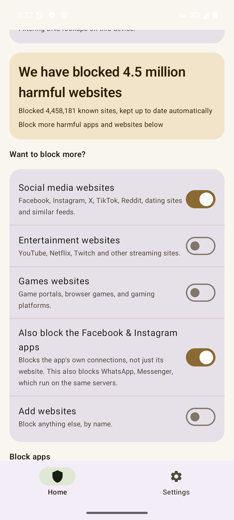
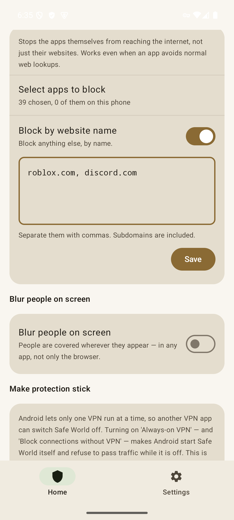
an update

diff --git a/website/index.html b/website/index.html
@@ -459,7 +459,6 @@
       <span data-i18n="nav.brand">Safe World</span>
     </a>
     <nav class="nav-links">
-      <a href="#tutorial" data-i18n="nav.tutorial">Tutorial</a>
       <a href="#download" data-i18n="nav.download">Download</a>
       <a href="#how" data-i18n="nav.how">How it works</a>
       <a href="#compare" data-i18n="nav.compare">Compare</a>
@@ -526,36 +525,13 @@
             </div>
           </div>
         </div>
-        <a class="btn btn-accent download-now" href="guide/#video">
+        <a class="btn btn-accent download-now" href="guide/">
           <svg viewBox="0 0 24 24" width="17" height="17" aria-hidden="true">
             <rect x="2.6" y="4.8" width="18.8" height="14.4" rx="2.6" fill="none" stroke="currentColor" stroke-width="1.9"/>
             <path d="M10.2 9.4 15 12l-4.8 2.6Z" fill="currentColor" stroke="currentColor" stroke-width="1.5" stroke-linejoin="round"/>
           </svg>
           <span data-i18n="hero.watch_cta">Watch tutorial</span>
         </a>
-      </div>
-    </div>
-  </section>
-
-  <section id="tutorial">
-    <div class="wrap">
-      <div class="section-head reveal">
-        <span class="eyebrow" data-i18n="tutorial.eyebrow">Watch first · 3 min 33 s</span>
-        <h2 data-i18n="tutorial.h2">See exactly what it does, before you install it.</h2>
-        <p data-i18n="tutorial.body">Every feature, on the real app: what each switch does, what changes when it's on or off, and why it's there.</p>
-      </div>
-      <div class="video-wrap reveal">
-        <video controls preload="none" playsinline poster="guide/video/poster.jpg">
-          <source src="guide/video/safe-world-tutorial.mp4" type="video/mp4">
-          <track kind="subtitles" src="guide/video/tutorial.en.vtt" srclang="en" label="English" default>
-          <track kind="subtitles" src="guide/video/tutorial.bn.vtt" srclang="bn" label="বাংলা">
-          <track kind="subtitles" src="guide/video/tutorial.es.vtt" srclang="es" label="Español">
-          <track kind="subtitles" src="guide/video/tutorial.ar.vtt" srclang="ar" label="العربية">
-          <a href="guide/video/safe-world-tutorial.mp4" data-i18n="tutorial.fallback">Download the tutorial video</a>
-        </video>
-        <p class="video-note">
-          <a href="guide/" data-i18n="tutorial.read_guide">Prefer to read? Open the full written guide →</a>
-        </p>
       </div>
     </div>
   </section>
@@ -567,7 +543,7 @@
         <h2 data-i18n="download.h2">Get Safe World for your device.</h2>
         <p data-i18n="download.body">Pick your device below and download Safe World — completely free, no account needed.</p>
         <p class="guide-link">
-          <a href="guide/#video" data-i18n="download.tutorial">▶ New here? Watch the 4-minute tutorial</a>
+          <a href="guide/" data-i18n="download.tutorial">▶ New here? Watch the 4-minute tutorial</a>
         </p>
       </div>
       <div class="grid reveal">
@@ -789,7 +765,6 @@
 <footer class="site wrap">
   <span data-i18n="footer.tagline">Content filtering that stays on your device.</span>
   <div class="foot-links">
-    <a href="#tutorial" data-i18n="nav.tutorial">Tutorial</a>
     <a href="guide/" data-i18n="nav.guide">User guide</a>
     <a href="privacy.html" data-i18n="footer.privacy">Privacy</a>
     <a href="https://github.com/jobayersajal1/project-safe-world" target="_blank" rel="noopener" data-i18n="footer.github">GitHub</a>

diff --git a/website/guide/index.html b/website/guide/index.html
@@ -211,25 +211,6 @@
   </div>
 </div>
 
-<div class="wrap" id="video">
-  <section class="tutorial">
-    <div class="tutorial-head">
-      <span class="eyebrow" data-i18n="g.eye2">Watch first · 3 min 33 s</span>
-      <h2 data-i18n="g.h21">The whole app, narrated.</h2>
-      <p data-i18n="g.tut_sub">Every feature below, in order, with the real screens and a spoken explanation of what each switch does and why. If you only have four minutes, watch this.</p>
-    </div>
-    <video controls preload="none" playsinline poster="video/poster.jpg">
-      <source src="video/safe-world-tutorial.mp4" type="video/mp4">
-          <track kind="subtitles" src="video/tutorial.en.vtt" srclang="en" label="English" default>
-          <track kind="subtitles" src="video/tutorial.bn.vtt" srclang="bn" label="বাংলা">
-          <track kind="subtitles" src="video/tutorial.es.vtt" srclang="es" label="Español">
-          <track kind="subtitles" src="video/tutorial.ar.vtt" srclang="ar" label="العربية">
-      Your browser can't play embedded video —
-      <a href="video/safe-world-tutorial.mp4">download the tutorial instead</a>.
-    </video>
-  </section>
-</div>
-
 <main class="wrap">
 
   <details class="step" open>
@@ -343,7 +324,7 @@
       <p class="lede" data-i18n="g5.lede1">Anything the categories don't cover, blocked by name.</p>
       <div class="shots">
         <figure>
-          <img src="img/08-add-websites.png" alt="Add websites field with comma-separated domain entry and Save button" loading="lazy" data-loc>
+          <img src="img/08-add-websites.png" alt="Add websites field with comma-separated domain entry and Save button" loading="lazy">
           <figcaption data-i18n-html="g5.cap1"><b>Type domains separated by commas.</b> Subdomains are included automatically — <code>example.com</code> also covers <code>shop.example.com</code>.</figcaption>
         </figure>
       </div>
